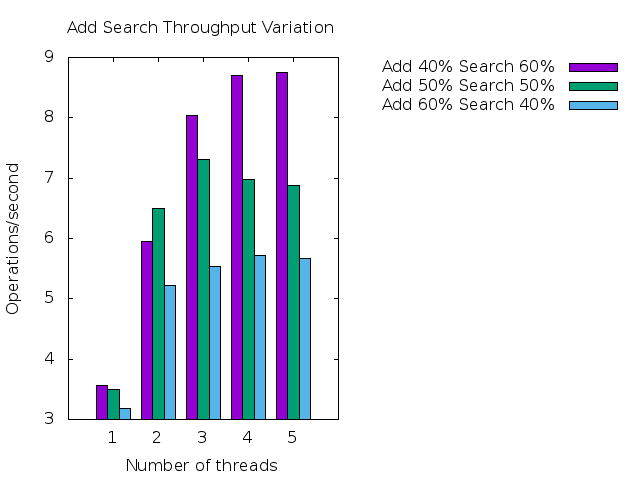
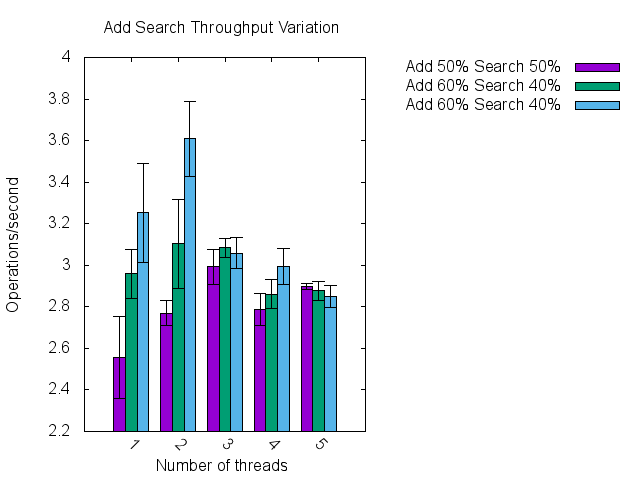
changed graphs to have error bars, added server times to graph options, bug fixes

diff --git a/demo/docker-client/MIELibrary/src/mie/utils/GNUPlot.java b/demo/docker-client/MIELibrary/src/mie/utils/GNUPlot.java
@@ -29,24 +29,26 @@ public class GNUPlot {
 		"set datafile commentschars '%s'\n"+
 		"set title '%s'\n"+
 		"set style data histogram\n"+
-		"set style histogram cluster gap 1\n"+
+		"set bars fullwidth\n"+
+		"set style histogram errorbars gap 1\n"+
 		"set style fill solid border -1\n"+
 		"set offsets graph 0, 0, 0.05, 0.05\n"+
 		"%s\n"+
 		"set xlabel '%s'\n"+
 		"set xtics rotate by -45\n"+
 		"set ylabel '%s'\n"+
+		"set yrange [0<*:]\n"+
 		"set term %s\n"+
 		"set output '%s.%s'\n"+
-		"plot for [DS=2:%d:1] '%s' using DS:xticlabels(1)";
+		"plot for [DS=2:%d:2] '%s' using DS:DS+1:xticlabels(1)";
 	private static final String LEGEND_ON = 
 		"set key autotitle columnhead\n"+
 		"set key outside";
 	private static final String LEGEND_OFF =
 		"set key off";
 	private static final String EXTRA_DATA_FILE_LINE =
-		", \\\n	 for [DS=2:%d:1] '%s' using "+
-		"DS:xticlabels(1)";
+		", \\\n	 for [DS=2:%d:2] '%s' using "+
+		"DS:DS+1:xticlabels(1)";
 	private static final String GNUPLOT_COMMENT = "#";
 	private static final String DATASET_FILE_FORMAT = "%s.dat";
 	private static final String SCRIPT_FILE_FORMAT = "%s.gnuplot";
@@ -96,6 +98,7 @@ public class GNUPlot {
 		DOWNLOAD_PER_TIME("download/time", new Stat[]{Stat.DOWNLOAD, Stat.TOTAL_TIME}),
 		//times
 		TIME("time", new Stat[]{Stat.TOTAL_TIME}),
+		//client times
 		CLIENT_INDEX("client_index_time", new Stat[]{Stat.CLIENT_INDEX}),
 		FEATURE_EXTRACTION("feature_extraction", new Stat[]{Stat.FEATURE_EXTRACTION}),
 		ENCRYPTION_TOTAL("encryption_time", new Stat[]{Stat.ENCRYPTION_SYMMETRIC}),
@@ -103,6 +106,23 @@ public class GNUPlot {
 		ENCRYPTION_CBIR("cbir_time", new Stat[]{Stat.ENCRYPTION_CBIR}),
 		ENCRYPTION_MISC("misc_time", new Stat[]{Stat.ENCRYPTION_MISC}),
 		CLIENT_NETWORK_TIME("client_network_time", new Stat[]{Stat.CLIENT_NETWORK_TIME}),
+		//server times
+		SERVER_INDEX("server_index_time", new Stat[]{Stat.SERVER_INDEX}),
+		TRAIN_TIME("train_time", new Stat[]{Stat.TRAIN_TIME}),
+		SEARCH_TIME("search_time", new Stat[]{Stat.SEARCH_TIME}),
+		SERVER_NETWORK_TIME("server_network_time", new Stat[]{Stat.SERVER_NETWORK_TIME}),
+		NETWORK_FEATURE_TIME("network_feature_time", new Stat[]{Stat.NETWORK_FEATURE_TIME}),
+		NETWORK_INDEX_TIME("network_index_time", new Stat[]{Stat.NETWORK_INDEX_TIME}),
+		NETWORK_ADD_TIME("network_add_time", new Stat[]{Stat.NETWORK_ADD_TIME}),
+		NETWORK_GET_TIME("network_get_time", new Stat[]{Stat.NETWORK_GET_TIME}),
+		NETWORK_PARALLEL_ADD("network_parallel_add", new Stat[]{Stat.NETWORK_PARALLEL_ADD}),
+		NETWORK_PARALLEL_GET("network_parallel_get", new Stat[]{Stat.NETWORK_PARALLEL_GET}),
+		NETWORK_UPLOAD_TIME("network_upload_time", new Stat[]{Stat.NETWORK_UPLOAD_TIME}),
+		NETWORK_DOWNLOAD_TIME("network_download_time", new Stat[]{Stat.NETWORK_DOWNLOAD_TIME}),
+		NETWORK_PARALLEL_UPLOAD("network_parallel_upload",
+			new Stat[]{Stat.NETWORK_PARALLEL_UPLOAD}),
+		NETWORK_PARALLEL_DOWNLOAD("network_parallel_download",
+			new Stat[]{Stat.NETWORK_PARALLEL_DOWNLOAD}),
 		//search
 		HIT_RATIO("precision", new Stat[]{Stat.HIT_RATIO}),
 		SCORE("score", new Stat[]{Stat.AVERAGE_SCORE});
@@ -125,17 +145,11 @@ public class GNUPlot {
 		}
 
 		protected double getStatValue(DataSerie ds) {
-			double[] values = new double[aStat.length];
-			for(int i = 0; i < values.length; i++){
-				if(null == aUnit[i])
-					values[i] = ds.getStat(aStat[i]);
-				else
-					values[i] = ds.getStat(aStat[i], aUnit[i]);
-			}
-			if(1 == values.length)
-				return values[0];
-			else
-				return values[0]/values[1];
+			return ds.getStat(aStat, aUnit);
+		}
+
+		protected double getStandardDeviation(DataSerie ds) {
+			return ds.getStandardDeviation(aStat, aUnit);
 		}
 
 		protected String getXLabel() {
@@ -159,7 +173,17 @@ public class GNUPlot {
 		}
 
 		protected String getUnits() {
-			return 2 == aUnit.length ? aUnit[0].getId()+"/"+aUnit[1].getId() : ""+aUnit[0].getId();
+			String ret = null;
+			if(2 == aUnit.length){
+				if(null != aUnit[0])
+					ret = aUnit[0].getId()+"/"+aUnit[1].getId();
+				else
+					ret = aStat[0].getKey()+"/"+aUnit[1].getId();
+			}
+			else if(null != aUnit[0]){
+				ret = ""+aUnit[0].getId();
+			}
+			return ret;
 		}
 
 		protected String getStatsKey() {
@@ -168,6 +192,8 @@ public class GNUPlot {
 		}
 
 		protected boolean setUnits(String units) {
+			if(null == units)
+				return true;
 			String[] unitsSplit = units.split(UNIT_SPLIT);
 			if(unitsSplit.length != aStat.length)
 				return false; 
@@ -253,7 +279,7 @@ public class GNUPlot {
 			op.setUnits(units);
 		}
 		SortedMap<String,SortedSet<DataSerie>> data = createDataTable();
-		String error = writeScript(data.get(LABELS_LABEL).size()+1);
+		String error = writeScript(data.get(LABELS_LABEL).size()*2);
 		writeDataset(data, error);
 		if(null == error)
 			createGraph();
@@ -307,11 +333,10 @@ public class GNUPlot {
 			if(aCreateLines){
 				//get correct line
 				String key = UNDEFINED_LABEL;
-				String xLabel = aXLabel.toString(); 
-				if(xLabel.equalsIgnoreCase(THREADS_X_LABEL)){
-					key = String.format("%.0f",ds.getStat(Stat.TOTAL_THREADS));
+				if(aXStat[0] == GraphOption.THREADS){
+					key = String.format("%.0f",ds.getStat(new Stat[]{Stat.TOTAL_THREADS}));
 				}
-				else if(xLabel.equalsIgnoreCase(OPS_X_LABEL)){
+				else if(aXStat[0] == GraphOption.OPS){
 					key = ds.getTitle();
 				}
 				SortedSet<DataSerie> serie = data.get(key);
@@ -344,8 +369,8 @@ public class GNUPlot {
 				String series1 = UNDEFINED_LABEL;
 				String series2 = UNDEFINED_LABEL;
 				if(aSeries == GraphOption.THREADS){
-					series1 = ""+o1.getStat(Stat.TOTAL_THREADS);
-					series2 = ""+o2.getStat(Stat.TOTAL_THREADS);
+					series1 = ""+o1.getStat(new Stat[]{Stat.TOTAL_THREADS});
+					series2 = ""+o2.getStat(new Stat[]{Stat.TOTAL_THREADS});
 				}
 				else if(aSeries == GraphOption.OPS){
 					series1 = o1.getTitle();
@@ -515,22 +540,24 @@ public class GNUPlot {
 				String value = null;
 				if(xTic.equalsIgnoreCase(LABELS_LABEL)){
 					if(writeHeader){
+						buffer.append("\t");
 						if(0 < aSerieName.length()){
 							value = aSerieName.toString();
 						}
 						else if(aSeries == GraphOption.THREADS){
-							value = String.format("%.0f", ds.getStat(Stat.TOTAL_THREADS));
+							value = String.format("%.0f", ds.getStat(
+								new Stat[]{Stat.TOTAL_THREADS}));
 						}
 						else if(aSeries == GraphOption.OPS){
-							value = ds.getTitle();
+							value = "\""+ds.getTitle()+"\"";
 						}
 						else{
-							value = ds.getTitle();	
+							value = "\""+ds.getTitle()+"\"";
 						}
 					}
 				}
 				else{
-					value = ""+keyStat.getStatValue(ds);
+					value = ""+keyStat.getStatValue(ds)+"\t"+keyStat.getStandardDeviation(ds);
 				}
 				if(null != value){
 					writen = true;
@@ -552,6 +579,13 @@ public class GNUPlot {
 		String inputData = new File(aOutputDir, aInputName).toString();
 		StringBuffer buffer = new StringBuffer();
 		String legend = 2 < nColumns || !aExtras.isEmpty() ? LEGEND_ON : LEGEND_OFF;
+		//add default x axis label if not specified
+		if(0 == aXLabel.length() && 1 == aXStat.length){
+			if(aXStat[0] == GraphOption.THREADS)
+				aXLabel.append(THREADS_X_LABEL);
+			else if(aXStat[0] == GraphOption.OPS)
+				aXLabel.append(OPS_X_LABEL);
+		}
 		buffer.append(String.format(BASE_SCRIPT, GNUPLOT_COMMENT, aTitle, legend, aXLabel,
 			aYLabel, aFormat, outputFile, aFormat, nColumns, inputData));
 		for(String fileName: aExtras){
@@ -560,7 +594,7 @@ public class GNUPlot {
 				BufferedReader reader = new BufferedReader(new FileReader(extraInput));
 				String headers = GNUPLOT_COMMENT;
 				while((headers = reader.readLine()).startsWith(GNUPLOT_COMMENT));
-				int columns = headers.split("\t").length;
+				int columns = headers.split("\t").length - 1;
 				buffer.append(String.format(EXTRA_DATA_FILE_LINE, columns, extraInput.toString()));
 			}
 			catch(IOException e){

diff --git a/demo/docker-client/MIELibrary/src/mie/utils/TestSet.java b/demo/docker-client/MIELibrary/src/mie/utils/TestSet.java
@@ -188,34 +188,37 @@ public class TestSet {
 		StringBuffer serverSide = new StringBuffer();
 		for(DataPoint.Stat t: DataPoint.Stat.values()){
 			if(!t.isClientTime()){
-				serverSide.append(String.format("%s: %.6f\n", t.getKey(), aStats.getStat(t)));
+				serverSide.append(String.format("%s: %.6f\n", t.getKey(), aStats.getStat(
+					new DataPoint.Stat[]{t})));
 			}
 		}
 
 		String others = String.format("CBIR encryption: %f\nSymmetric encryption: %f\nMisc: %f\n"+
 			"Client Cache Hit Ratio: %.6f\n",
-			aStats.getStat(DataPoint.Stat.ENCRYPTION_CBIR),
-			aStats.getStat(DataPoint.Stat.ENCRYPTION_SYMMETRIC),
-			aStats.getStat(DataPoint.Stat.ENCRYPTION_MISC),
-			aStats.getStat(DataPoint.Stat.CLIENT_HIT_RATIO));
+			aStats.getStat(new DataPoint.Stat[]{DataPoint.Stat.ENCRYPTION_CBIR}),
+			aStats.getStat(new DataPoint.Stat[]{DataPoint.Stat.ENCRYPTION_SYMMETRIC}),
+			aStats.getStat(new DataPoint.Stat[]{DataPoint.Stat.ENCRYPTION_MISC}),
+			aStats.getStat(new DataPoint.Stat[]{DataPoint.Stat.CLIENT_HIT_RATIO}));
 
 		String clientSide = String.format(
 				"featureTime: %.6f indexTime: %.6f cryptoTime: %.6f cloudTime: %.6f Total time: %.6f\n"+
 				"Throughput:\nTotal Bytes uploaded: %.0f Total Bytes searched: %.0f Total Bytes "+
 				"downloaded: %.0f\nBytes uploaded/s: %.6f Bytes searched/s: %.6f Bytes downloaded/s:"+
 				" %.6f\nTotal operations: %.0f Operations/s: %.6f",
-				aStats.getStat(DataPoint.Stat.FEATURE_EXTRACTION),
-				aStats.getStat(DataPoint.Stat.CLIENT_INDEX),
-				aStats.getStat(DataPoint.Stat.ENCRYPTION_TOTAL),
-				aStats.getStat(DataPoint.Stat.CLIENT_NETWORK_TIME),
-				aStats.getStat(DataPoint.Stat.TOTAL_TIME), aStats.getStat(DataPoint.Stat.UPLOAD),
-				aStats.getStat(DataPoint.Stat.SEARCH),
-				aStats.getStat(DataPoint.Stat.DOWNLOAD),
-				aStats.getStat(DataPoint.Stat.UPLOAD)/aStats.getStat(DataPoint.Stat.TOTAL_TIME),
-				aStats.getStat(DataPoint.Stat.SEARCH)/aStats.getStat(DataPoint.Stat.TOTAL_TIME),
-				aStats.getStat(DataPoint.Stat.DOWNLOAD)/aStats.getStat(DataPoint.Stat.TOTAL_TIME),
-				aStats.getStat(DataPoint.Stat.TOTAL_OPERATIONS),
-				aStats.getStat(DataPoint.Stat.TOTAL_OPERATIONS)/aStats.getStat(DataPoint.Stat.TOTAL_TIME));
+				aStats.getStat(new DataPoint.Stat[]{DataPoint.Stat.FEATURE_EXTRACTION}),
+				aStats.getStat(new DataPoint.Stat[]{DataPoint.Stat.CLIENT_INDEX}),
+				aStats.getStat(new DataPoint.Stat[]{DataPoint.Stat.ENCRYPTION_TOTAL}),
+				aStats.getStat(new DataPoint.Stat[]{DataPoint.Stat.CLIENT_NETWORK_TIME}),
+				aStats.getStat(new DataPoint.Stat[]{DataPoint.Stat.TOTAL_TIME}),
+					aStats.getStat(new DataPoint.Stat[]{DataPoint.Stat.UPLOAD}),
+				aStats.getStat(new DataPoint.Stat[]{DataPoint.Stat.SEARCH}),
+				aStats.getStat(new DataPoint.Stat[]{DataPoint.Stat.DOWNLOAD}),
+				aStats.getStat(new DataPoint.Stat[]{DataPoint.Stat.UPLOAD, DataPoint.Stat.TOTAL_TIME}),
+				aStats.getStat(new DataPoint.Stat[]{DataPoint.Stat.SEARCH, DataPoint.Stat.TOTAL_TIME}),
+				aStats.getStat(new DataPoint.Stat[]{DataPoint.Stat.DOWNLOAD,DataPoint.Stat.TOTAL_TIME}),
+				aStats.getStat(new DataPoint.Stat[]{DataPoint.Stat.TOTAL_OPERATIONS}),
+				aStats.getStat(new DataPoint.Stat[]{DataPoint.Stat.TOTAL_OPERATIONS,
+					DataPoint.Stat.TOTAL_TIME}));
 		return serverSide.toString() + others + clientSide;
 	}
 
@@ -318,10 +321,9 @@ public class TestSet {
 				}
 				else if(args[0].equalsIgnoreCase(TITLE)){
 					StringBuffer titleBuffer = new StringBuffer();
-					titleBuffer.append("\""+args[1]);
+					titleBuffer.append(args[1]);
 					for(int i = 2; i < args.length; i++)
 						titleBuffer.append(" "+args[i]);
-					titleBuffer.append("\"");
 					aTitle = titleBuffer.toString();
 				}
 				else if(args[0].equalsIgnoreCase(RESET)||args[0].equalsIgnoreCase(CLEAR)||

diff --git a/demo/docker-client/MIELibrary/src/mie/utils/DataSerie.java b/demo/docker-client/MIELibrary/src/mie/utils/DataSerie.java
@@ -17,14 +17,18 @@ public class DataSerie {
 		return aTitle;
 	}
 
-	public double getStat(DataPoint.Stat stat) {
-		return getStat(stat, stat.getDefaultUnit());
+	public double getStat(DataPoint.Stat[] stat) {
+		DataPoint.Unit[] units = new DataPoint.Unit[stat.length];
+		for(int i = 0; i < stat.length; i++)
+			units[i] = stat[i].getDefaultUnit();
+		return getStat(stat, units);
 	}
 
-	public double getStat(DataPoint.Stat stat, DataPoint.Unit prefix) {
+	public double getStat(DataPoint.Stat[] stat, DataPoint.Unit[] prefix) {
 		double average = 0;
 		for(DataPoint dp: aPoints){
-			average += dp.getStat(stat, prefix);
+			average += stat.length == 1 ? dp.getStat(stat[0], prefix[0])
+				: dp.getStat(stat[0], prefix[0])/dp.getStat(stat[1], prefix[1]);
 		}
 		return average/aPoints.length;
 	}
@@ -41,6 +45,23 @@ public class DataSerie {
 				max = value;
 		}
 		return max;
+	}
+
+	public double getStandardDeviation(DataPoint.Stat[] stat) {
+		DataPoint.Unit[] units = new DataPoint.Unit[stat.length];
+		for(int i = 0; i < stat.length; i++)
+			units[i] = stat[i].getDefaultUnit();
+		return getStandardDeviation(stat, units);
+	}
+
+	public double getStandardDeviation(DataPoint.Stat[] stat, DataPoint.Unit[] prefix) {
+		double average = getStat(stat, prefix);
+		double tmpDeviation = 0;
+		for(DataPoint dp: aPoints){
+			tmpDeviation += Math.pow((stat.length == 1 ? dp.getStat(stat[0], prefix[0])
+				: dp.getStat(stat[0], prefix[0])/dp.getStat(stat[1], prefix[1])) - average, 2);
+		}
+		return Math.sqrt(tmpDeviation/aPoints.length);
 	}
 
 	public double getStatMin(DataPoint.Stat stat) {
